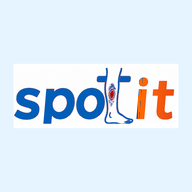
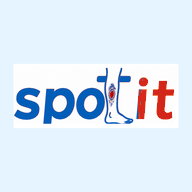
Make Spotit it mark red

Changed region(s): [[0.7188, 0.4062, 0.9062, 0.625]]

diff --git a/public/index.html b/public/index.html
@@ -11,11 +11,11 @@
     <meta name="robots" content="index, follow" />
     <link rel="canonical" href="https://spotit-app-production-6d30.up.railway.app/" />
     <link rel="author" href="https://spotit-app-production-6d30.up.railway.app/about.html" />
-    <link rel="manifest" href="/manifest.webmanifest?v=71" />
-    <link rel="icon" href="/spotit-firefox-favicon-v52.ico" sizes="any" />
-    <link rel="icon" type="image/png" href="/spotit-android-icon-512-v52.png" />
-    <link rel="shortcut icon" type="image/png" href="/spotit-android-icon-512-v52.png" />
-    <link rel="apple-touch-icon" href="/spotit-apple-touch-v52.png" />
+    <link rel="manifest" href="/manifest.webmanifest?v=72" />
+    <link rel="icon" href="/spotit-firefox-favicon-v53.ico" sizes="any" />
+    <link rel="icon" type="image/png" href="/spotit-android-icon-512-v53.png" />
+    <link rel="shortcut icon" type="image/png" href="/spotit-android-icon-512-v53.png" />
+    <link rel="apple-touch-icon" href="/spotit-apple-touch-v53.png" />
     <meta name="theme-color" content="#005eb8" />
     <meta name="mobile-web-app-capable" content="yes" />
     <meta name="apple-mobile-web-app-capable" content="yes" />
@@ -26,12 +26,12 @@
     <meta property="og:title" content="Spotit Wound Care | Founded by Lynda Chidi" />
     <meta property="og:description" content="Spotit Wound Care supports wound capture, assessment workflow, review planning, caseload visibility and reporting for controlled healthcare evaluation." />
     <meta property="og:url" content="https://spotit-app-production-6d30.up.railway.app/" />
-    <meta property="og:image" content="https://spotit-app-production-6d30.up.railway.app/spotit-social-preview-v52.png" />
+    <meta property="og:image" content="https://spotit-app-production-6d30.up.railway.app/spotit-social-preview-v53.png" />
     <meta property="og:image:alt" content="Spotit wound care logo with wound-care leg and plaster mark." />
     <meta name="twitter:card" content="summary_large_image" />
     <meta name="twitter:title" content="Spotit Wound Care | Founded by Lynda Chidi" />
     <meta name="twitter:description" content="Spotit Wound Care supports wound capture, assessment workflow, review planning, caseload visibility and reporting for controlled healthcare evaluation." />
-    <meta name="twitter:image" content="https://spotit-app-production-6d30.up.railway.app/spotit-social-preview-v52.png" />
+    <meta name="twitter:image" content="https://spotit-app-production-6d30.up.railway.app/spotit-social-preview-v53.png" />
     <script type="application/ld+json">
       {
         "@context": "https://schema.org",
@@ -41,7 +41,7 @@
         "applicationCategory": "HealthApplication",
         "operatingSystem": "Web, Android",
         "url": "https://spotit-app-production-6d30.up.railway.app/",
-        "image": "https://spotit-app-production-6d30.up.railway.app/spotit-social-preview-v52.png",
+        "image": "https://spotit-app-production-6d30.up.railway.app/spotit-social-preview-v53.png",
         "description": "Spotit Wound Care is a wound-care workflow app for wound capture, assessment workflow, review planning, caseload visibility and reporting.",
         "creator": {
           "@type": "Person",
@@ -4219,7 +4219,7 @@
   <body>
     <section class="login-screen" id="loginScreen">
       <form class="login-card" id="loginForm" autocomplete="off">
-        <img src="assets/brand/spotit-app-logo-v52.png?v=52" alt="Spotit wound care logo" class="login-logo" />
+        <img src="assets/brand/spotit-app-logo-v53.png?v=53" alt="Spotit wound care logo" class="login-logo" />
         <label>
           Username
           <input id="loginEmail" type="text" autocomplete="off" required />
@@ -4267,7 +4267,7 @@
           <svg viewBox="0 0 24 24" aria-hidden="true"><path d="M4 6h16v2H4V6Zm0 5h16v2H4v-2Zm0 5h16v2H4v-2Z" fill="currentColor"/></svg>
         </button>
         <div class="rail-logo" aria-label="Spotit logo">
-          <img src="assets/brand/spotit-app-logo-v52.png?v=52" alt="Spotit" />
+          <img src="assets/brand/spotit-app-logo-v53.png?v=53" alt="Spotit" />
         </div>
         <div class="rail-menu">
           <button class="rail-item active" type="button" data-nav="dashboard" title="Dashboard">

diff --git a/public/service-worker.js b/public/service-worker.js
@@ -1,14 +1,14 @@
-const SPOTIT_CACHE = "spotit-shell-v71";
+const SPOTIT_CACHE = "spotit-shell-v72";
 const SHELL_ASSETS = [
   "/",
   "/index.html",
-  "/manifest.webmanifest?v=71",
-  "/assets/brand/spotit-app-logo-v52.png?v=52",
-  "/spotit-website-logo-v52.png",
-  "/spotit-social-preview-v52.png",
-  "/spotit-android-icon-512-v52.png",
-  "/spotit-android-icon-192-v52.png",
-  "/spotit-apple-touch-v52.png"
+  "/manifest.webmanifest?v=72",
+  "/assets/brand/spotit-app-logo-v53.png?v=53",
+  "/spotit-website-logo-v53.png",
+  "/spotit-social-preview-v53.png",
+  "/spotit-android-icon-512-v53.png",
+  "/spotit-android-icon-192-v53.png",
+  "/spotit-apple-touch-v53.png"
 ];
 
 self.addEventListener("install", (event) => {
